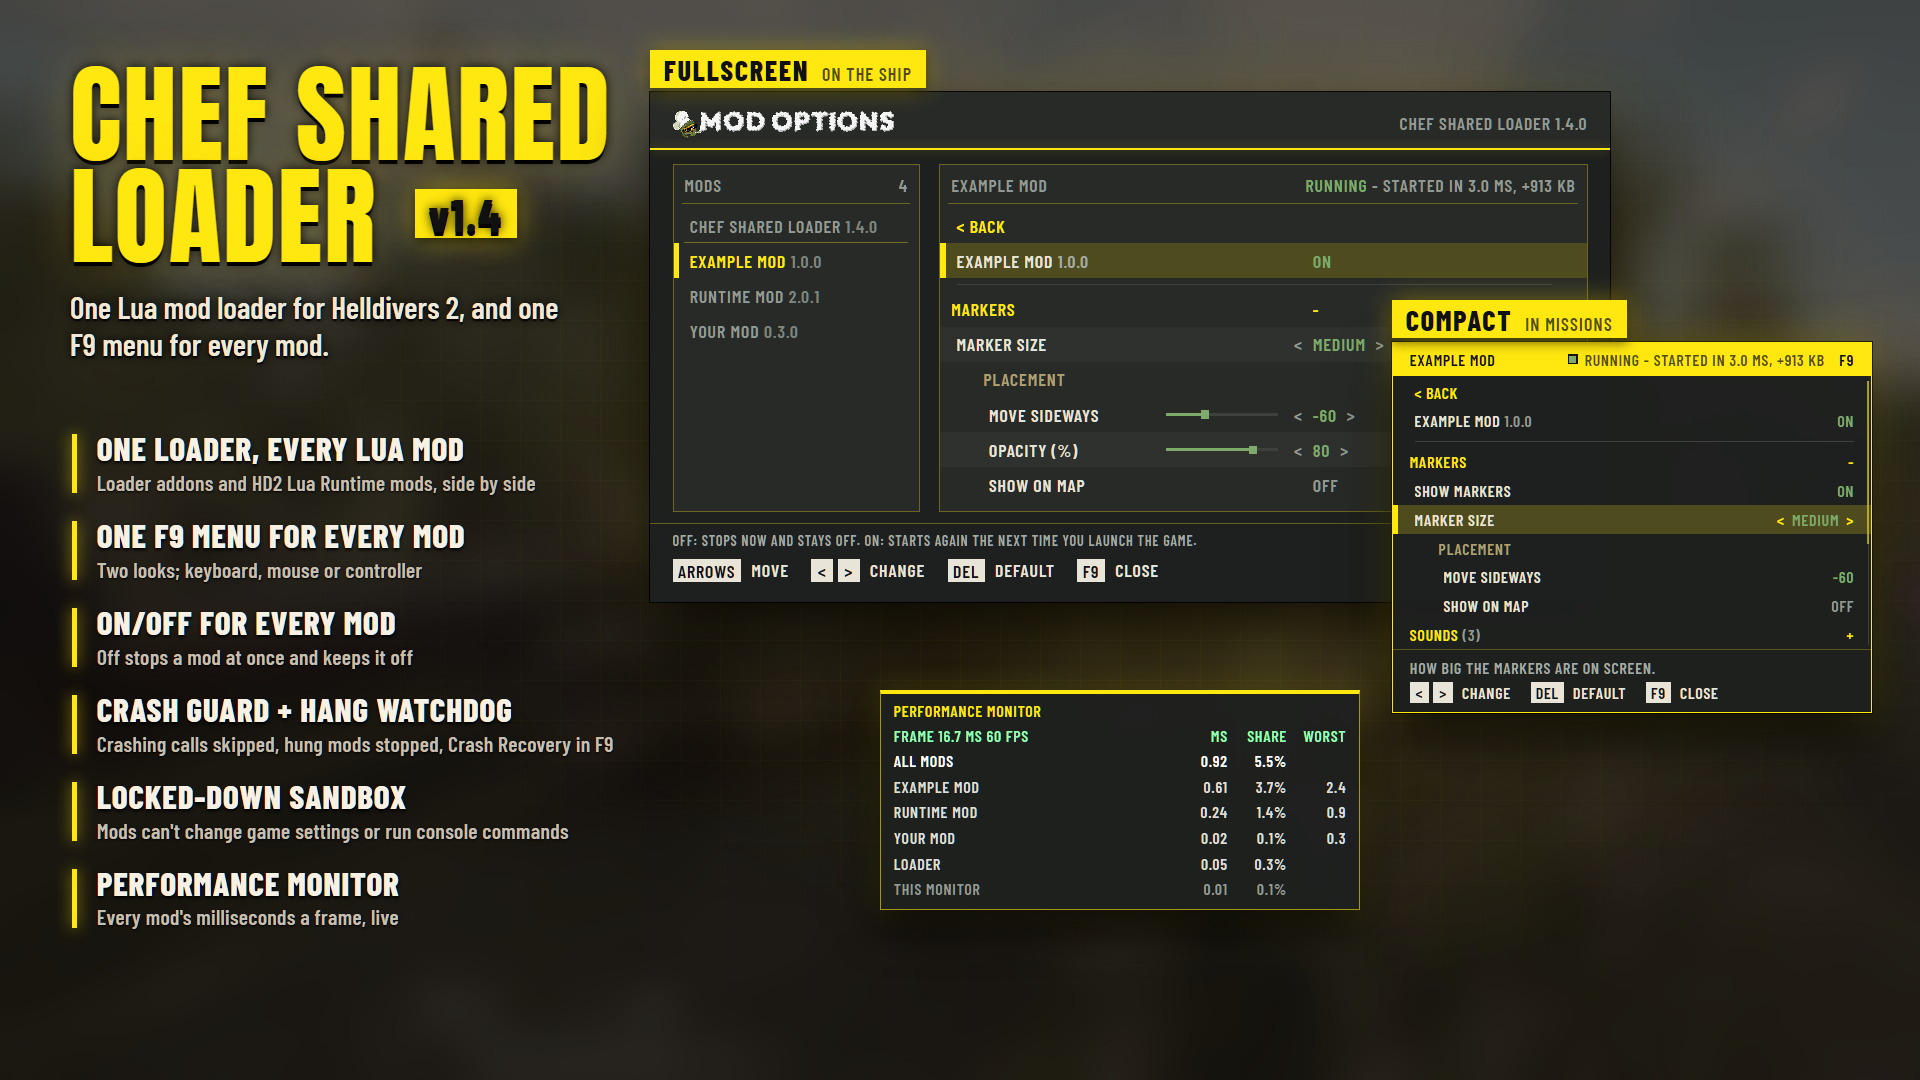
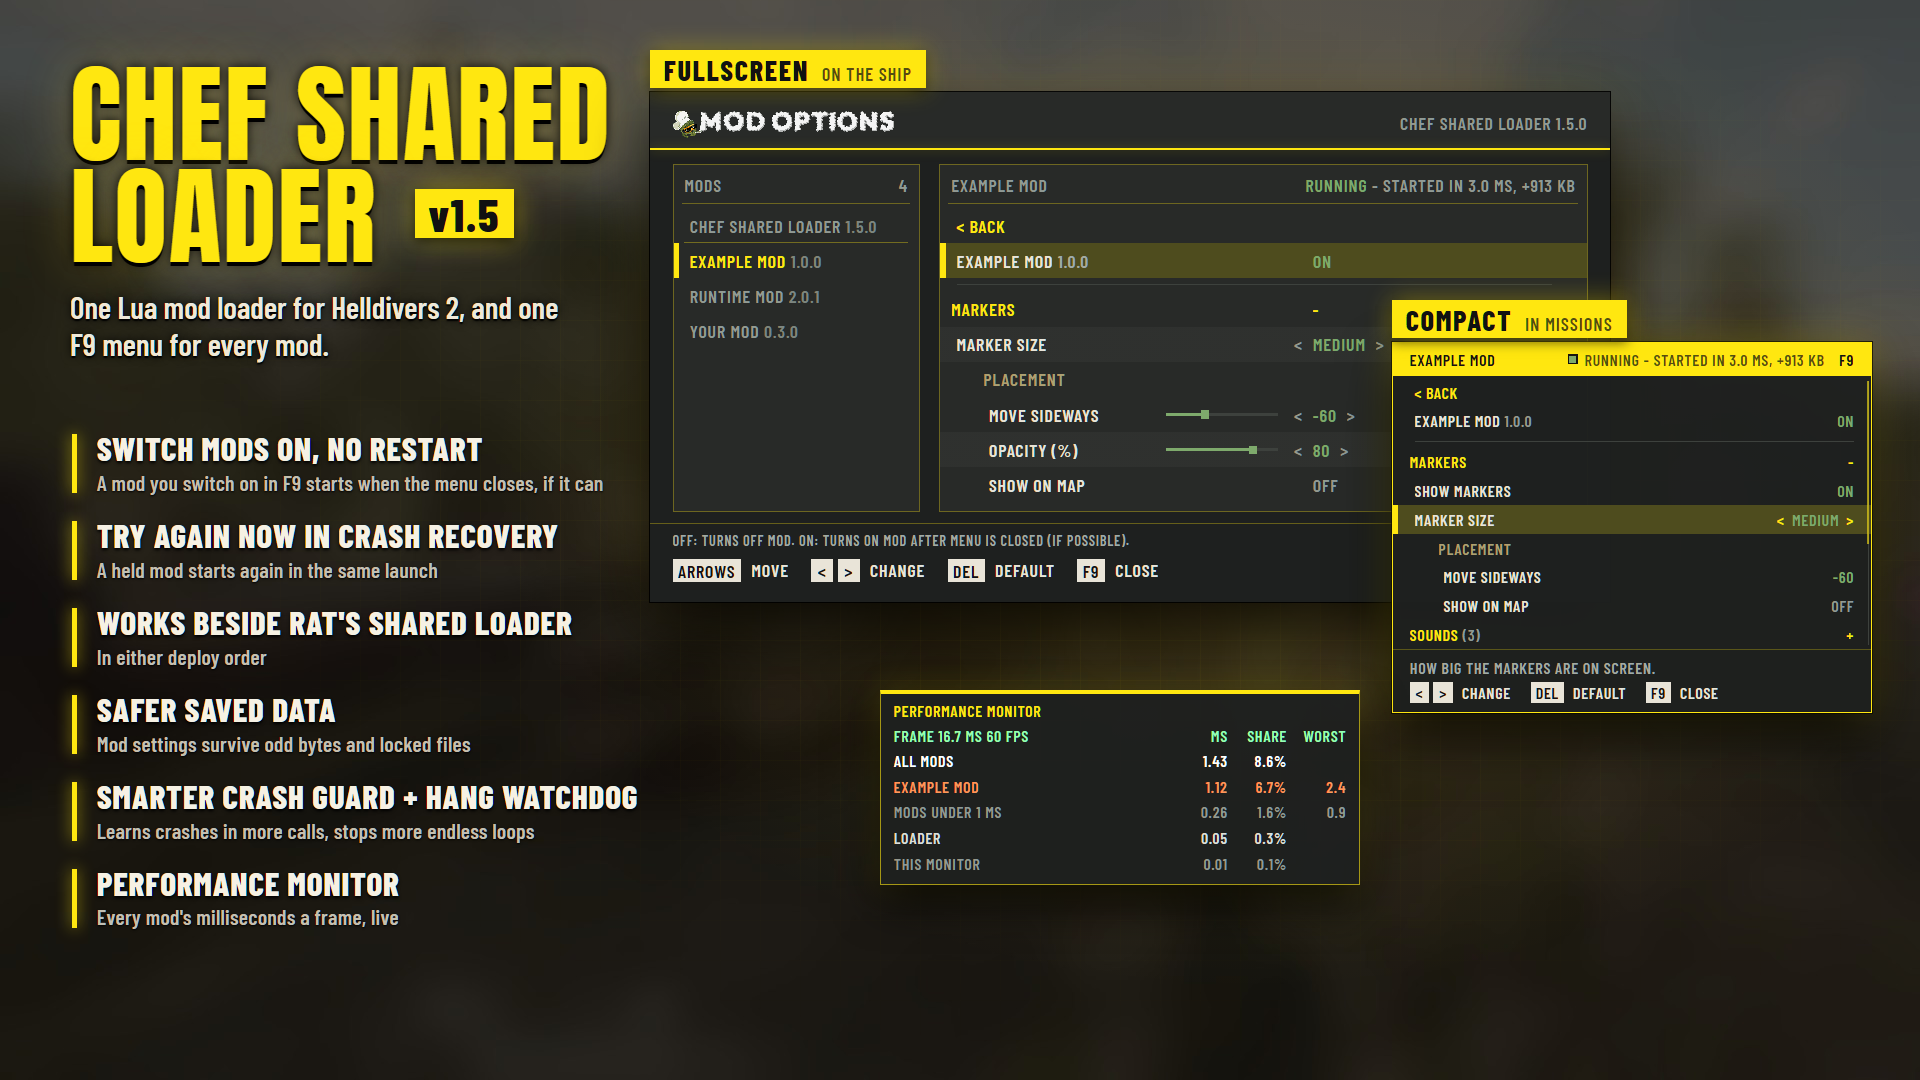
1.5.0: art (v1.5), the mod manager thumbnail and the art script

diff --git a/art/make_art.py b/art/make_art.py
@@ -8,10 +8,10 @@ Condensed caps), with made-up mods open in them, and the loader's core features 
 Pillow, and Edge or Chrome to screenshot.
 
 How I build the set (from the repo root, the browser on the same system as the out dir):
-1. python3 art/make_art.py <out dir> [version, default 1.4.0]
+1. python3 art/make_art.py <out dir> [version, default 1.5.0]
    writes one self-contained page per picture into <out dir>, named after the PNG it becomes (thumbnail_1254.html
    and so on; the fonts, the menu's title picture from src/menu_banner.png and the background are all embedded),
-   then prints each page's screenshot size. The badge is the version's x.y; the menus are always the 1.4 menus.
+   then prints each page's screenshot size. The badge is the version's x.y; the menus are the current menus.
    (--mod <name> is still taken and ignored: the menus always show the made-up Example Mod.)
 2. Screenshot each page at its own size with a headless Edge or Chrome (both Chromium, same flags), e.g. on Windows:
      "C:\\Program Files (x86)\\Microsoft\\Edge\\Application\\msedge.exe" --headless=new --disable-gpu
@@ -31,7 +31,7 @@ import base64, io, os, sys
 from PIL import Image, ImageDraw, ImageEnhance, ImageFilter
 
 HERE = os.path.dirname(os.path.abspath(__file__))
-VERSION = ['1.4.0']                     # (the one the art is made for, from the command line)
+VERSION = ['1.5.0']                     # (the one the art is made for, from the command line)
 # the full screen look's title picture, the loader's own (src/menu_banner.png)
 BANNER = base64.b64encode(open(os.path.join(HERE, '..', 'src', 'menu_banner.png'), 'rb').read()).decode()
 FONTS = {'Anton': 'anton-latin-400-normal.woff2', 'BC': 'barlow-condensed-latin-600-normal.woff2',
@@ -40,11 +40,11 @@ TAGLINE = 'One Lua mod loader for Helldivers 2, and one F9 menu for every mod.'
 # The core features: a headline, its line under it, and the short tag the small pictures use. Each one says only what
 # README.md says (the section it comes from after it).
 FEATURES = [
-    ('One loader, every Lua mod', 'Loader addons and HD2 Lua Runtime mods, side by side', 'EVERY LUA MOD'),   # intro, Other mods' boot scripts
-    ('One F9 menu for every mod', 'Two looks; keyboard, mouse or controller', 'ONE F9 MENU'),                   # Running mods > Options menu
-    ('On/off for every mod', 'Off stops a mod at once and keeps it off', 'ON/OFF PER MOD'),                     # Crash guard > Switching a mod off
-    ('Crash guard + hang watchdog', 'Crashing calls skipped, hung mods stopped, Crash Recovery in F9', 'CRASH GUARD'),  # Crash guard, Known limits
-    ('Locked-down sandbox', "Mods can't change game settings or run console commands", 'LOCKED DOWN'),          # Security model
+    ('Switch mods on, no restart', 'A mod you switch on in F9 starts when the menu closes, if it can', 'ON WITH NO RESTART'),  # Crash guard > Switching a mod off
+    ('Try Again Now in Crash Recovery', 'A held mod starts again in the same launch', 'TRY AGAIN NOW'),         # Crash guard > Trying a mod again from the menu
+    ("Works beside Rat's Shared Loader", 'In either deploy order', "RAT'S SHARED LOADER"),                     # intro, and its section on working beside another loader
+    ('Safer saved data', 'Mod settings survive odd bytes and locked files', 'SAFER SAVED DATA'),               # Files on the player's computer
+    ('Smarter crash guard + hang watchdog', 'Learns crashes in more calls, stops more endless loops', 'SMARTER CRASH GUARD'),  # Crash guard, Known limits
     ('Performance monitor', "Every mod's milliseconds a frame, live", 'PERFORMANCE MONITOR'),                  # Running mods > Performance monitor
 ]
 # the made-up mods in the menus: the open one (its name, version and its status on the title bar) and the others in
@@ -53,7 +53,7 @@ MOD = ('EXAMPLE MOD', '1.0.0')
 STATUS = ('RUNNING', ' - STARTED IN 3.0 MS', ', +913 KB')
 OTHERS = [('RUNTIME MOD', '2.0.1'), ('YOUR MOD', '0.3.0')]
 # the switch's hint, as the loader shows it on the selected switch row
-SWITCH_HINT = 'OFF: STOPS NOW AND STAYS OFF. ON: STARTS AGAIN THE NEXT TIME YOU LAUNCH THE GAME.'
+SWITCH_HINT = 'OFF: TURNS OFF MOD. ON: TURNS ON MOD AFTER MENU IS CLOSED (IF POSSIBLE).'
 SIZE_HINT = 'HOW BIG THE MARKERS ARE ON SCREEN.'
 # the key hints (services.lua HINTS.value: a toggle, a choice, a slider or a color selected), ARROWS MOVE optional
 HINTS_VALUE = [(['ARROWS'], 'MOVE', True), (['<', '>'], 'CHANGE', False), (['DEL'], 'DEFAULT', False),
@@ -110,7 +110,7 @@ body { width:%(W)dpx; height:%(H)dpx; overflow:hidden; background:#0b0c0b; posit
 .title { font-family:'Anton'; color:var(--y); letter-spacing:0.015em; line-height:0.94; text-transform:uppercase;
   text-shadow:0 0.035em 0 #000, 0 0 0.1em rgba(0,0,0,.9), 0 0 0.45em rgba(255,214,40,.28); white-space:nowrap; }
 .badge { display:inline-block; font-family:'BCB'; text-transform:none; background:var(--y); color:var(--ink); padding:0.02em 0.3em 0;
-  line-height:1.05; letter-spacing:0.03em; box-shadow:0 0.08em 0.25em rgba(0,0,0,.7), 0 0 0.6em rgba(255,231,16,.5); }
+  line-height:1.05; letter-spacing:0.03em; text-shadow:none; box-shadow:0 0.08em 0.25em rgba(0,0,0,.7), 0 0 0.6em rgba(255,231,16,.5); }
 .tag { font-family:'BC'; color:#efe8d8; line-height:1.18;
   text-shadow:0 0.05em 0.05em #000, 0 0 0.3em rgba(0,0,0,.95); }
 /* the features: each with a lit row's yellow edge */
@@ -215,7 +215,7 @@ body { width:%(W)dpx; height:%(H)dpx; overflow:hidden; background:#0b0c0b; posit
 .pm .r { display:flex; align-items:center; height:1.6em; padding:0 0.8em; color:#dcded8; }
 .pm .r .n { flex:1 1 auto; }
 .pm .r .c { width:3.7em; text-align:right; }
-.pm .r.hd { color:#96ffb4; } .pm .r.al { color:#fff; } .pm .r.dm { color:var(--gy); }
+.pm .r.hd { color:#96ffb4; } .pm .r.al { color:#fff; } .pm .r.dm { color:var(--gy); } .pm .r.hv { color:#ff965a; }
 """
 
 
@@ -387,11 +387,11 @@ def compactview(x, y, w, size, pick=None, lit=5, note=SIZE_HINT, more=True, extr
 
 
 def perf(x, y, w, size, extra=''):
-    """the performance monitor (utilities.lua): the frame, all mods, each mod's ms, share and worst call, the loader"""
-    rows = [('FRAME 16.7 MS  60 FPS', ['MS', 'SHARE', 'WORST'], 'hd'), ('ALL MODS', ['0.92', '5.5%', ''], 'al'),
-            (MOD[0], ['0.61', '3.7%', '2.4'], ''), (OTHERS[0][0], ['0.24', '1.4%', '0.9'], ''),
-            (OTHERS[1][0], ['0.02', '0.1%', '0.3'], ''), ('LOADER', ['0.05', '0.3%', ''], ''),
-            ('THIS MONITOR', ['0.01', '0.1%', ''], 'dm')]
+    """the performance monitor (utilities.lua) with "Hide mods under 1 ms" on: the frame, all mods, the one mod over its
+    budget in orange, the other two on the shared line (their sum and the worst call among them), the loader"""
+    rows = [('FRAME 16.7 MS  60 FPS', ['MS', 'SHARE', 'WORST'], 'hd'), ('ALL MODS', ['1.43', '8.6%', ''], 'al'),
+            (MOD[0], ['1.12', '6.7%', '2.4'], 'hv'), ('MODS UNDER 1 MS', ['0.26', '1.6%', '0.9'], 'dm'),
+            ('LOADER', ['0.05', '0.3%', ''], ''), ('THIS MONITOR', ['0.01', '0.1%', ''], 'dm')]
     body = ''.join('<div class="r %s"><span class="n">%s</span>%s</div>' % (
         c, n, ''.join('<span class="c">%s</span>' % v for v in vs)) for n, vs, c in rows)
     return ('<div class="pm" style="left:%dpx;top:%dpx;width:%dpx;font-size:%.2fpx%s"><div class="tt">PERFORMANCE MONITOR</div>'
@@ -443,7 +443,7 @@ def main():
     if '--mod' in args:
         i = args.index('--mod'); del args[i:i + 2]
     out = args[0]
-    ver_ = args[1] if len(args) > 1 else '1.4.0'
+    ver_ = args[1] if len(args) > 1 else '1.5.0'
     VERSION[0] = ver_
     badge = 'v' + '.'.join(ver_.split('.')[:2])
     os.makedirs(out, exist_ok=True)
@@ -473,7 +473,7 @@ def main():
         ('gallery_1920x1080.png', 1920, 1080,
          glow(1250, 470, 760, 520)
          + title2(70, 64, 108, 46, TAGLINE, 31, 520)
-         + feats(72, 430, 560, 33)
+         + feats(72, 430, 600, 33)
          + label(650, 50, 28, 'FULLSCREEN', 'ON THE SHIP')
          + fullview(650, 92, 960, 18, pick=FP)
          + label(1392, 300, 28, 'COMPACT', 'IN MISSIONS')
@@ -489,13 +489,13 @@ def main():
          + fullview(44, 310, 960, 19.5, pick=FP, note=False)
          + label(764, 676, 34, 'COMPACT')
          + compactview(764, 724, 450, 15, pick=CPK, note=None)
-         + chips(44, 880, 690, 38, range(6))),
-        # GitHub (1280x640, 40 px kept clear all round): the title and four features on the left, the two looks right,
+         + chips(44, 880, 690, 34, range(6))),
+        # GitHub (1280x640, 40 px kept clear all round): the title and five features on the left, the two looks right,
         # the monitor under the full look
         ('GitHub-Social-1280x640.png', 1280, 640,
          glow(880, 300, 480, 340)
          + title2(44, 44, 74, 32, TAGLINE, 22, 400)
-         + feats(46, 318, 420, 25, which=[0, 1, 3, 4], sub=False)
+         + feats(46, 318, 430, 25, which=[0, 1, 2, 3, 4], sub=False)
          + label(486, 42, 19, 'FULLSCREEN', 'ON THE SHIP')
          + fullview(486, 72, 590, 10.9, pick=FP, note=False)
          + label(962, 196, 19, 'COMPACT', 'IN MISSIONS')
@@ -518,7 +518,7 @@ def main():
          glow(880, 110, 420, 200)
          + title1(30, 26, 58, 24)
          + '<div class="tag" style="position:absolute;left:32px;top:104px;width:540px;font-size:20px">%s</div>' % TAGLINE
-         + chips(32, 144, 570, 14, [0, 1, 2, 3, 4])
+         + chips(32, 144, 550, 13, [0, 1, 2, 4])
          + label(596, 4, 13, 'FULLSCREEN', 'ON THE SHIP')
          + fullview(596, 24, 460, 8.6, pick=[1, 3, 5, 7], note=False, stat=False)
          + label(1000, 50, 13, 'COMPACT', 'IN MISSIONS')
